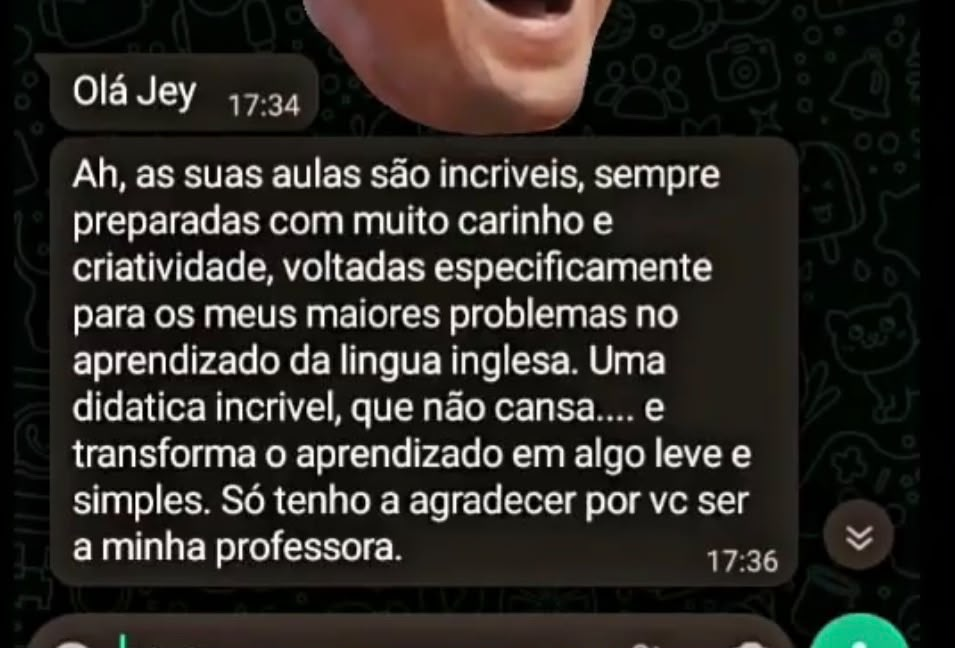
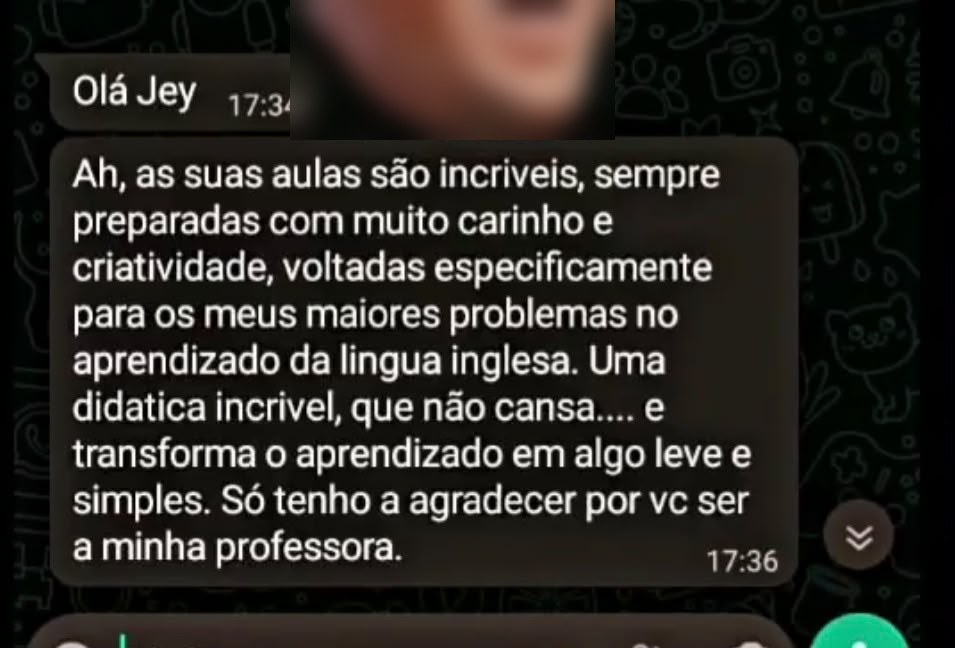
sync (victor): 16/10/2026 00:29

Changed region(s): [[0.3037, 0.0, 0.6681, 0.216], [0.3037, 0.1543, 0.334, 0.1852]]

diff --git a/clientes/Jéssica/hostinger/public_html/experience/index.html b/clientes/Jéssica/hostinger/public_html/experience/index.html
@@ -9,7 +9,8 @@
 <meta property="og:title" content="Ladies Fluency Experience">
 <meta property="og:description" content="Janeiro de 2027, em Florianópolis. Uma tarde inteira falando inglês, entre mulheres que também travam. Pré-venda aberta.">
 <meta property="og:type" content="website">
-<meta property="og:image" content="assets/logo-ladies-fluency-academy.png">
+<meta property="og:image" content="https://jessicaoliveira.space/experience/assets/logo-ladies-fluency-academy.png">
+<meta property="og:url" content="https://jessicaoliveira.space/experience/">
 <link rel="icon" href="assets/logo-ladies-fluency-selo.png">
 <link rel="preconnect" href="https://fonts.googleapis.com">
 <link rel="preconnect" href="https://fonts.gstatic.com" crossorigin>

diff --git a/clientes/Jéssica/pagina-3-evento/site/index.html b/clientes/Jéssica/pagina-3-evento/site/index.html
@@ -9,7 +9,8 @@
 <meta property="og:title" content="Ladies Fluency Experience">
 <meta property="og:description" content="Janeiro de 2027, em Florianópolis. Uma tarde inteira falando inglês, entre mulheres que também travam. Pré-venda aberta.">
 <meta property="og:type" content="website">
-<meta property="og:image" content="assets/logo-ladies-fluency-academy.png">
+<meta property="og:image" content="https://jessicaoliveira.space/experience/assets/logo-ladies-fluency-academy.png">
+<meta property="og:url" content="https://jessicaoliveira.space/experience/">
 <link rel="icon" href="assets/logo-ladies-fluency-selo.png">
 <link rel="preconnect" href="https://fonts.googleapis.com">
 <link rel="preconnect" href="https://fonts.gstatic.com" crossorigin>

diff --git a/clientes/Jéssica/MENSAGENS-JESSICA-2026-10-13.md b/clientes/Jéssica/MENSAGENS-JESSICA-2026-10-13.md
@@ -65,6 +65,37 @@
 
 ---
 
+## 3-bis · Versão de 16/10 — substitui a mensagem 3
+
+*Decisões do Victor em 16/10, que tiraram três das cinco perguntas:* **(1)** compra para 17/10 → **considerada não feita** (premissa, não fato confirmado) · **(3)** capacidade → ela já respondeu na call de 22/09: Casa Viva *"pra no máximo umas dez"*, *"quinze pessoas bem espremidas"*; Natureza tem *"um deck enorme"*, aberto, com risco de chuva, e ela ainda precisa ver o deck [22/09, linhas 761 a 797 do transcript] · **(4)** depoimentos → **nome e foto borrados por padrão** (DEC-033).
+
+*Sobra a 2 (preço da turma), que é fato dela, e a 5, que vira base de cálculo para ela mesma preencher. **O exemplo é inventado e diz isso.** Os preços são os da tabela dela de 28/07 (`OFERTA.md`); o custo de R$ 22 por pessoa é o do `STATUS.md` §2.*
+
+> mais duas coisas pra eu fechar a parte de número..
+>
+> **1.** o English Therapy que começa em fevereiro, depois da tua formação: quanto vai custar? minha sugestão pra turma que você abre na sala do evento é R$ 4.997, em até 12 vezes. fecha assim ou você ajusta?
+>
+> **2.** essa aqui você não precisa me responder, é pra você fazer a conta. são dados mais concretos com base no que você fatura hoje. vou te mostrar com um exemplo inventado, só pra você ver como funciona, e depois você troca pelos teus números:
+>
+> passo 1, quanto entra hoje das aulas:
+> 8 alunos de 1x por semana × R$ 497 = R$ 3.976
+> 3 alunos de 2x por semana × R$ 798 = R$ 2.394
+> 1 grupo de 3 × R$ 350 = R$ 1.050
+> total: R$ 7.420 por mês
+>
+> passo 2, quanto sai com os alunos que você vai encaminhar:
+> 4 alunos de 1x × R$ 497 = R$ 1.988 por mês a menos
+>
+> passo 3, o que cobre esse buraco:
+> cada vaga do evento a R$ 147 deixa uns R$ 125 pra você, tirando o custo por pessoa. pra cobrir R$ 1.988 seriam 16 vagas, todo mês. o evento se paga, mas não é ele que repõe a renda.
+> quem repõe é a venda na sala: uma matrícula de R$ 4.997 cobre dois meses e meio do que saiu.
+>
+> com os teus números, a conta te diz quantas matrículas na sala de janeiro deixam você tranquila pra encaminhar os alunos. se quiser me mandar o resultado, eu já coloco a meta do evento em cima dele..
+
+**Por que assim:** a pergunta 5 original pedia a ela um número sensível no grupo. A base de cálculo entrega a conta e deixa o número com ela; se ela devolver o resultado, a meta do evento sai com dado real (`STATUS.md` §4, aberta desde 11/08). **Leitura que o exemplo carrega, e vale com qualquer número dela:** o evento não repõe renda de aula; a venda na sala sim. É a razão de a turma precisar de preço antes de janeiro.
+
+---
+
 ## 4 · O funil
 
 *Anexo: `Funil-de-Resposta-Direta-Jessica.pdf`*

diff --git a/clientes/Jéssica/STATUS.md b/clientes/Jéssica/STATUS.md
@@ -277,10 +277,13 @@ O número **funcionava com 12 dígitos** — o Victor abriu a conversa e caiu ce
 | **Três páginas no domínio dela (Hostinger)** | ✅ **no ar.** Victor, 16/10: *"testei todas as páginas e leads estão entrando na planilha"*. Fecha o item 2b do §10 (aberto desde 19/08) e a CORR-030 |
 | **Planilha de leads** | ✅ gravando nas três abas · link para a Jéssica: `https://docs.google.com/spreadsheets/d/1sgujPSCUs_sfvXRC-yChUbi6egguPpodCjAVMWNro3Y/edit` · ⚠ compartilhada por link: recomendado restringir ao e-mail dela (contém nome e telefone de leads, LGPD) |
 | **Envio para ela** | 🟡 Victor enviando em 16/10: links das páginas, planilha, plano de divulgação e as cinco perguntas da mensagem 3 · **mensagem 4 (funil) segura até a DEC-029** |
-| **Domínio** | **A CONFIRMAR em arquivo.** Sem ele não se redirecionam as duas URLs da Vercel nem se corrige a imagem de compartilhamento |
-| 🔴 **17/10 (data antiga)** | é amanhã. Pergunta 1 da mensagem 3 checa se houve compra para essa data |
+| **Domínio** | ✅ **`jessicaoliveira.space`** · `/ingles/` · `/portuguese/` · `/experience/` (as três respondendo 200 em 16/10) |
+| **17/10 (data antiga)** | **premissa do Victor: ninguém comprou.** Não confirmado por ela (DEC-033) |
+| **Depoimentos** | nome e foto **borrados por padrão** (DEC-033). 🔴 **no ar ainda está a versão sem desfoque:** subir de novo o `hostinger/ingles.zip` (e o `experience.zip`, que ganhou a imagem de prévia com endereço completo) |
+| **Perguntas a ela** | das cinco, ficaram duas: **preço do English Therapy** e a **base de cálculo de receita**, que ela faz sozinha (`MENSAGENS-JESSICA-2026-10-13.md` §3-bis) |
+| **URLs antigas da Vercel** | 🟡 `redirecionar-vercel.sh` pronto · CLI deslogado |
 
-**Próximo passo e dono:** Jéssica responde as cinco perguntas · Victor passa o domínio e decide a DEC-029 · Continuum redireciona a Vercel e atualiza a imagem de prévia.
+**Próximo passo e dono:** Victor sobe `ingles.zip` + `experience.zip`, roda `npx vercel login` + `bash redirecionar-vercel.sh`, manda a 3-bis e decide a DEC-029 · Jéssica responde o preço da turma.
 
 ---
 

diff --git a/clientes/Jéssica/DECISOES.md b/clientes/Jéssica/DECISOES.md
@@ -475,6 +475,21 @@ Criar decisão sinaliza propagação; não autoriza publicar fora da tarefa vige
 
 ## Propostas — não vigentes
 
+### DEC-2026-10-16-033 — Páginas no domínio dela · depoimentos sem identidade · três perguntas fechadas
+
+| Campo | Registro |
+|---|---|
+| fato | **as três páginas estão no ar em `jessicaoliveira.space`** (`/ingles/`, `/portuguese/`, `/experience/`), testadas pelo Victor em 16/10: *"testei todas as páginas e leads estão entrando na planilha"*. Fecha a CORR-030 e o teste de fumaça aberto desde 19/08 |
+| decisão (Victor) | **depoimentos com nome e foto borrados, por padrão**, em página e em post. Vale até ela trazer autorização por escrito, aluna por aluna |
+| aplicado | 9 dos 15 prints da página 1 (02, 03, 05, 06, 09, 10, 12, 14, 15) + `depoimento-divisor-de-aguas.jpeg`, que não aparece na página mas era servido. Pixelado + desfoque, irreversível no arquivo publicado. **Originais intactos em `contexto/depoimentos/`.** 🔴 o domínio ainda serve a versão sem desfoque até o `ingles.zip` ser subido de novo |
+| premissa (Victor) | **ninguém comprou vaga para 17/10.** Registrada como premissa, não como fato confirmado por ela |
+| fato já respondido | capacidade: Casa Viva *"pra no máximo umas dez"*, *"quinze pessoas bem espremidas"*; Natureza com *"um deck enorme"*, aberto, risco de chuva, deck ainda não visto por ela (call 22/09). Vagas seguem sem número até o local (DEC-024) |
+| pergunta 5 → base de cálculo | em vez de pedir a receita no grupo, ela recebe a conta para fazer, com exemplo inventado e declarado como tal (`MENSAGENS-JESSICA-2026-10-13.md` §3-bis) |
+| aplicado também | `og:image` e `og:url` da página do evento com endereço absoluto · `redirecionar-vercel.sh` pronto (CLI da Vercel deslogado em 16/10) |
+| estado | ✅ vigente · 🟡 re-upload do `ingles.zip` e do `experience.zip` · 🟡 redirecionamento da Vercel |
+
+---
+
 ### PROP-2026-10-13-031 — O limite das "modificações inclusas por um ano"
 
 | Campo | Registro |

diff --git a/clientes/Jéssica/DEPLOY-HOSTINGER.md b/clientes/Jéssica/DEPLOY-HOSTINGER.md
@@ -2,7 +2,8 @@
 
 > **Decisão do Victor, 13/10/2026:** *"vamos passar todos os arquivos para o gerenciador de arquivos do domínio dela na Hostinger.. sem Vercel"* (DEC-032).
 > **Pacote:** `hostinger/` · **Remontar:** `py -I montar-hostinger.py` · **Estado:** ✅ **no ar desde 16/10/2026**, testado pelo Victor nas três páginas, leads gravando na planilha
-> **Domínio:** `{{DOMINIO}}` — **não está registrado em nenhum arquivo desta conta.** Preencher aqui quando for usado.
+> **Domínio:** **`jessicaoliveira.space`** (informado pelo Victor em 16/10/2026). Onde abaixo estiver `{{DOMINIO}}`, é este.
+> **Redirecionamento das URLs antigas da Vercel:** `bash redirecionar-vercel.sh`, depois de `npx vercel login`.
 
 ---
 
